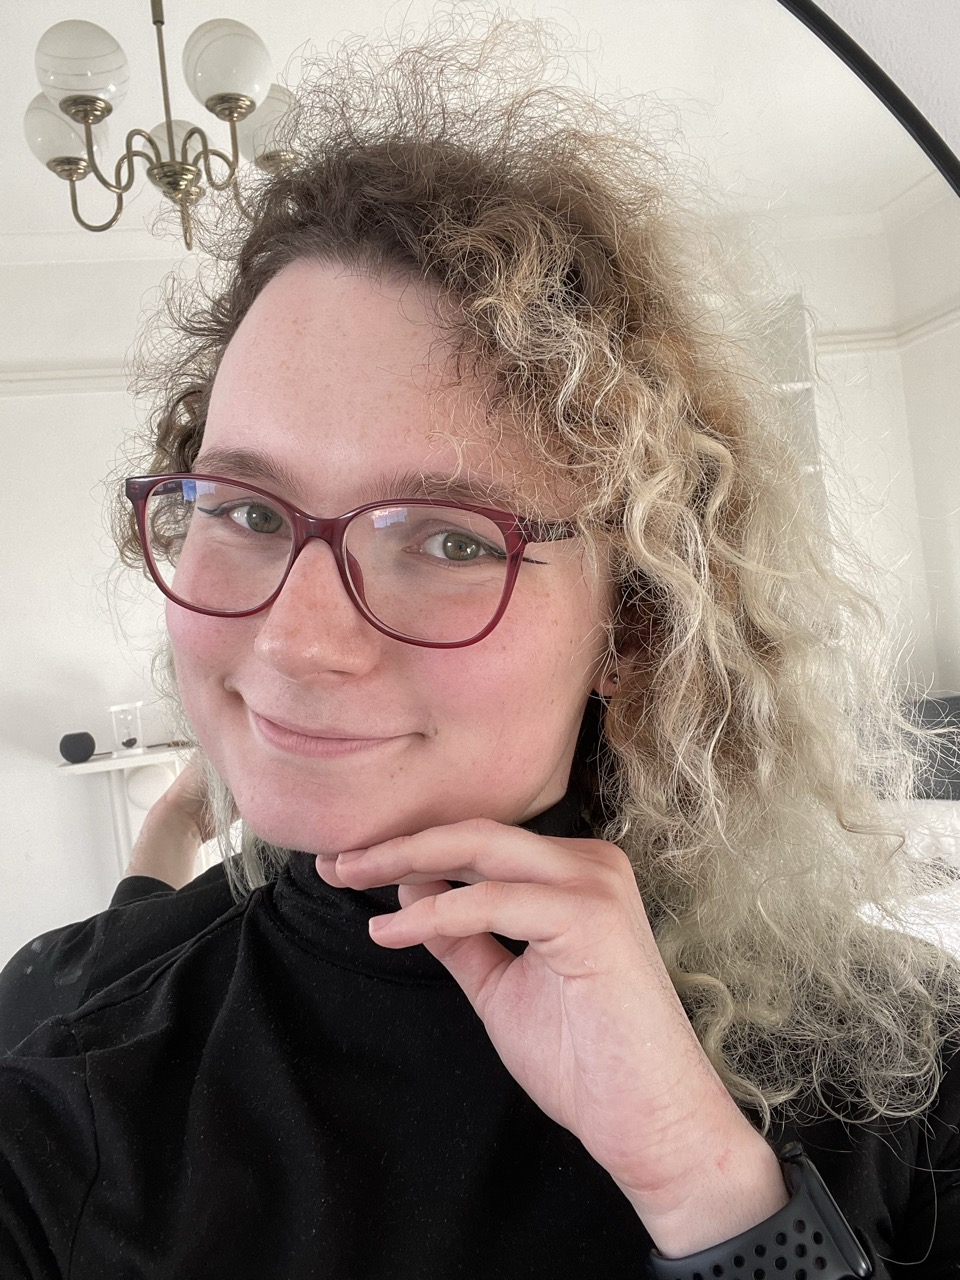
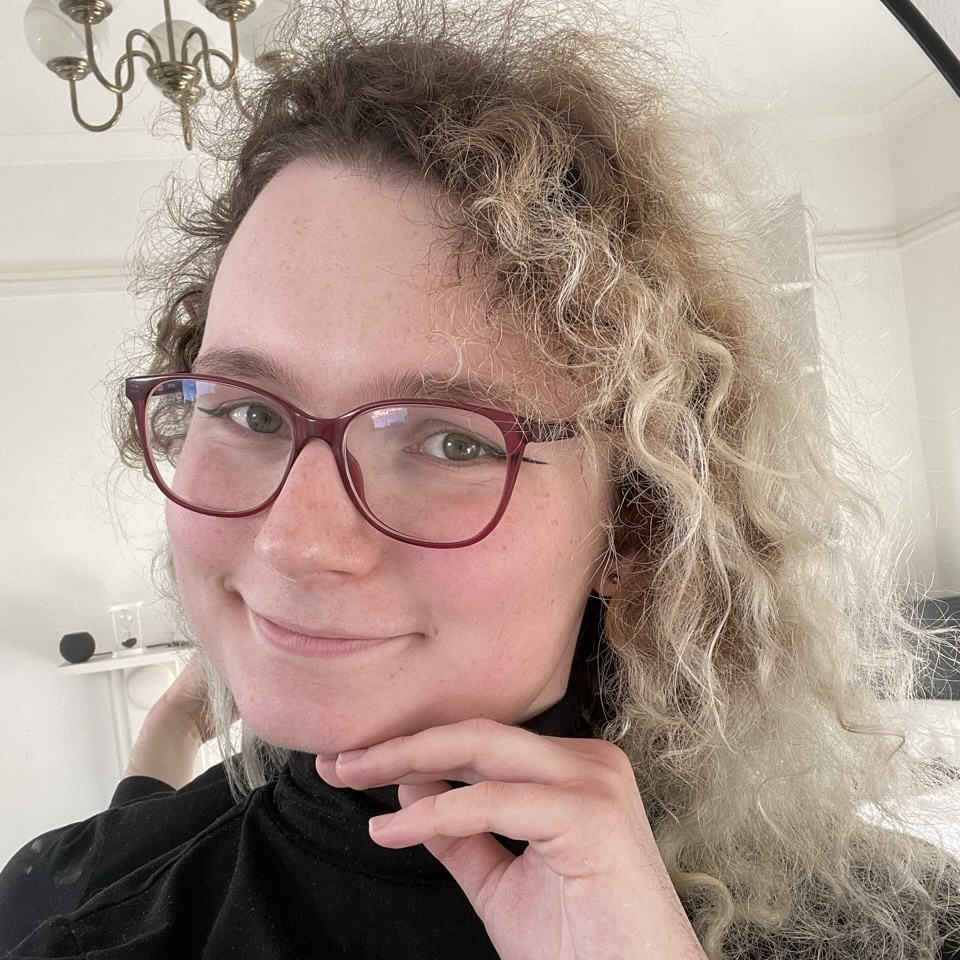
Turned the image into a circle

diff --git a/_pages/about.md b/_pages/about.md
@@ -7,7 +7,7 @@ subtitle:
 profile:
   align: right
   image: profile_pic.jpeg
-  image_circular: false # crops the image to make it circular
+  image_circular: true # crops the image to make it circular
   more_info:
 
 selected_papers: true # includes a list of papers marked as "selected={true}"
